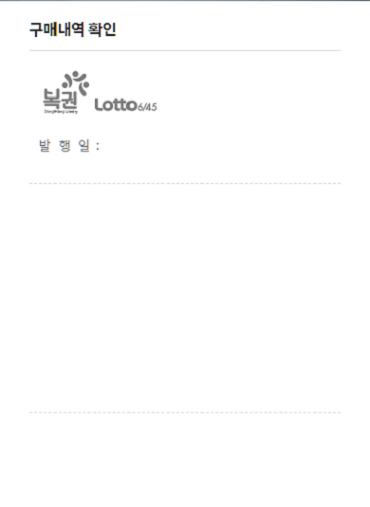
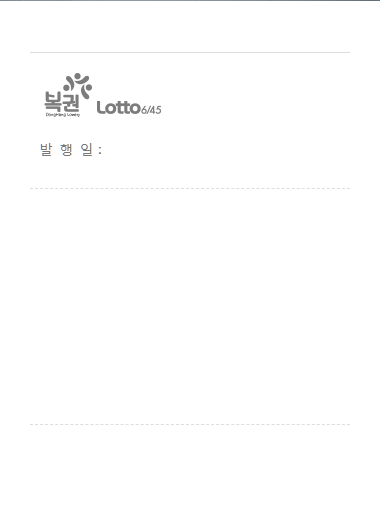
이기표, 결과창 배경이미지 선언 확인 로또 이미지 사진 수정

diff --git a/team/src/team/ResultFrame.java b/team/src/team/ResultFrame.java
@@ -2,147 +2,51 @@
 import java.awt.event.ActionEvent;
 import java.awt.event.ActionListener;
 
+import javax.swing.ImageIcon;
 import javax.swing.JButton;
 import javax.swing.JFrame;
 import javax.swing.JLabel;
 import javax.swing.JPanel;
+import javax.swing.SpringLayout;
 import javax.swing.border.LineBorder;
+
+import java.awt.BorderLayout;
 import java.awt.Color;
 import java.awt.Font;
 
 // 기표
 public class ResultFrame extends JFrame {
 	private LottoProgram lotto;
-	private JLabel aResult;
-	private JLabel bResult;
-	private JLabel cResult;
-	private JLabel dResult;
-	private JLabel eResult;
 
 	public ResultFrame(LottoProgram lottoProgram) {
 		this.lotto = lottoProgram;
 		setTitle("로또 결과 확인");
-		JPanel pnl = new JPanel();
-		pnl.setLayout(null);
-		JButton btnreturn = new JButton("돌아가기");
-		btnreturn.setBounds(12, 10, 90, 25);
-		pnl.add(btnreturn);
-		getContentPane().add(pnl);
-
-		JPanel panel = new JPanel();
-		panel.setBounds(70, 80, 550, 80); // 결과 창이 나오는 패널
-		panel.setBorder(new LineBorder(new Color(0, 0, 0), 2));
-		pnl.add(panel);
-
-		JLabel A = new JLabel("A");
-		A.setFont(new Font("SansSerif", Font.BOLD, 20));
-		A.setBounds(70, 240, 20, 20);
-		pnl.add(A);
-
-		JLabel AText = new JLabel("");
-		AText.setFont(new Font("휴먼모음T", Font.BOLD, 20));
-		AText.setBounds(100, 240, 60, 20);
-		pnl.add(AText);
-
-		aResult = new JLabel("");
-		aResult.setBounds(560, 240, 57, 15);
-		pnl.add(aResult);
-
-		JLabel aNumber = new JLabel("New label");
-		aNumber.setBounds(291, 240, 57, 15);
-		pnl.add(aNumber);
-		if (lotto.resultBuy != null && lotto.resultBuy.size() >= 5) {
-			StringBuilder indexNumber = new StringBuilder();
-			aNumber.setText(lotto.resultBuy.get(0).toString());
-		}
-
-		JLabel B = new JLabel("B");
-		B.setFont(new Font("SansSerif", Font.BOLD, 20));
-		B.setBounds(70, 300, 20, 20);
-		pnl.add(B);
-
-		JLabel BText = new JLabel("");
-		BText.setFont(new Font("휴먼모음T", Font.BOLD, 20));
-		BText.setBounds(100, 300, 60, 20);
-		pnl.add(BText);
-
-		bResult = new JLabel("");
-		bResult.setBounds(560, 300, 57, 15);
-		pnl.add(bResult);
-
-		JLabel C = new JLabel("C");
-		C.setFont(new Font("SansSerif", Font.BOLD, 20));
-		C.setBounds(70, 360, 20, 20);
-		pnl.add(C);
-
-		JLabel CText = new JLabel("");
-		CText.setFont(new Font("휴먼모음T", Font.BOLD, 20));
-		CText.setBounds(100, 360, 60, 20);
-		pnl.add(CText);
-
-		cResult = new JLabel("");
-		cResult.setBounds(560, 360, 57, 15);
-		pnl.add(cResult);
-
-		JLabel D = new JLabel("D");
-		D.setFont(new Font("SansSerif", Font.BOLD, 20));
-		D.setBounds(70, 420, 20, 20);
-		pnl.add(D);
-
-		JLabel DText = new JLabel("");
-		DText.setFont(new Font("휴먼모음T", Font.BOLD, 20));
-		DText.setBounds(100, 420, 60, 20);
-		pnl.add(DText);
-
-		dResult = new JLabel("");
-		dResult.setBounds(560, 420, 57, 15);
-		pnl.add(dResult);
-
-		JLabel E = new JLabel("E");
-		E.setFont(new Font("SansSerif", Font.BOLD, 20));
-		E.setBounds(70, 480, 20, 20);
-		pnl.add(E);
-
-		JLabel EText = new JLabel("");
-		EText.setFont(new Font("휴먼모음T", Font.BOLD, 20));
-		EText.setBounds(100, 480, 60, 20);
-		pnl.add(EText);
-
-		eResult = new JLabel("");
-		eResult.setBounds(560, 480, 57, 15);
-		pnl.add(eResult);
-
-		btnreturn.addActionListener(new ActionListener() {
-			@Override
-			public void actionPerformed(ActionEvent e) {
-				setVisible(false);
-				lotto.setVisible(true);
-
-			}
-		});
-
-////		pnl2.setBounds(0, 0, 684, 561);
-//		if (lotto.resultBuy != null) {
-//				
-//				System.out.println(lotto.resultBuy.get(0));
-//				lotto.showBuyBall(pnl, sl_pnl, -200, lotto.resultBuy.get(0));
-//				
-//		}
+		JLabel backgroundImage = new JLabel(new ImageIcon("images/lottoResult.png"));
+		SpringLayout spring = new SpringLayout();
+		backgroundImage.setLayout(spring);
+		
+		
+//		btnreturn.addActionListener(new ActionListener() {
+//			@Override
+//			public void actionPerformed(ActionEvent e) {
+//				setVisible(false);
+//				lotto.setVisible(true);
 //
-//		
-
-		setSize(700, 600);
+//			}
+//		});
+		getContentPane().add(backgroundImage);
+		pack();
 		setVisible(false);
 
 	}
 
-	public void updateResultLabels() {
-		if (lotto.resultBuy != null && lotto.resultBuy.size() <= 5) {
-			aResult.setText(lotto.resultBuy.get(0).toString());
-			bResult.setText(lotto.resultBuy.get(1).toString());
-			cResult.setText(lotto.resultBuy.get(2).toString());
-			dResult.setText(lotto.resultBuy.get(3).toString());
-			eResult.setText(lotto.resultBuy.get(4).toString());
-		}
-	}
+//	public void updateResultLabels() {
+//		if (lotto.resultBuy != null && lotto.resultBuy.size() <= 5) {
+//			aResult.setText(lotto.resultBuy.get(0).toString());
+//			bResult.setText(lotto.resultBuy.get(1).toString());
+//			cResult.setText(lotto.resultBuy.get(2).toString());
+//			dResult.setText(lotto.resultBuy.get(3).toString());
+//			eResult.setText(lotto.resultBuy.get(4).toString());
+//		}
+//	}
 }
